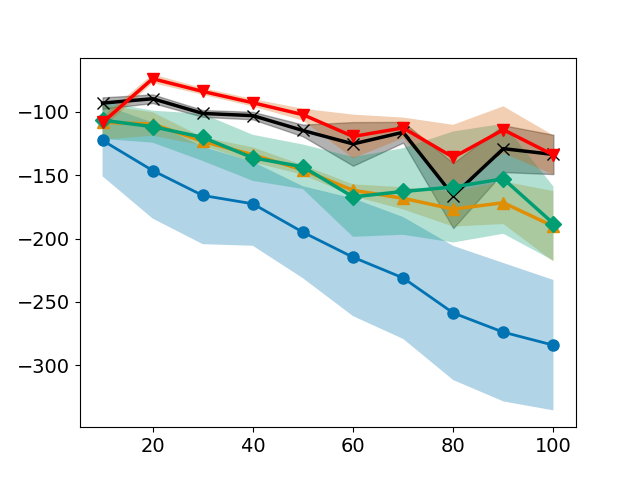
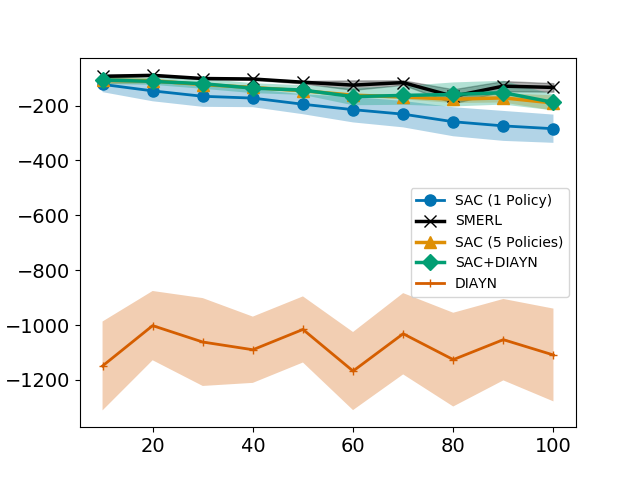
Plotting code

diff --git a/rlkit/scripts/plotting/plot_evaluation_results.py b/rlkit/scripts/plotting/plot_evaluation_results.py
@@ -82,7 +82,7 @@ for env_name in env_names:
 		plt.plot(x, diayn_mean, label='DIAYN', marker='+', linewidth=2)
 		plt.fill_between(x, diayn_mean-diayn_error, diayn_mean+diayn_error, alpha=alpha)
 
-		# plt.legend(fontsize=20)
+		plt.legend(fontsize=10)
 		plt.xticks(fontsize=14)
 		plt.yticks(fontsize=14)
 
